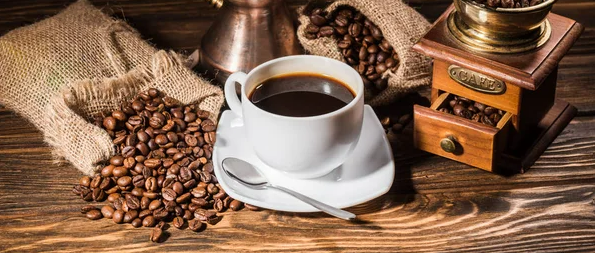
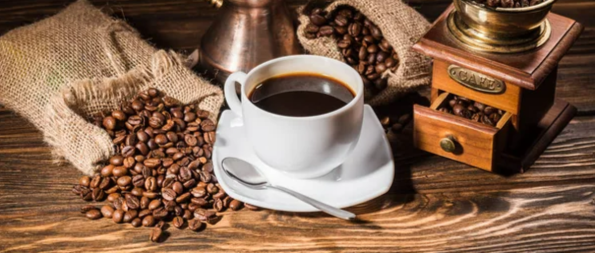
resize image

diff --git a/README.md b/README.md
@@ -1,9 +1,5 @@
 <p align="center">
-<img src="images\depositphotos_199494296-stock-photo-high-angle-view-coffee-cup.jpg">
-
-
-<img src="images\Coffee_image.jpg">
-
+<img src="images\Coffee_image.png">
 
 # Coffee_Analysis
 An analysis and visualization of worldwide coffee production and consumption.
